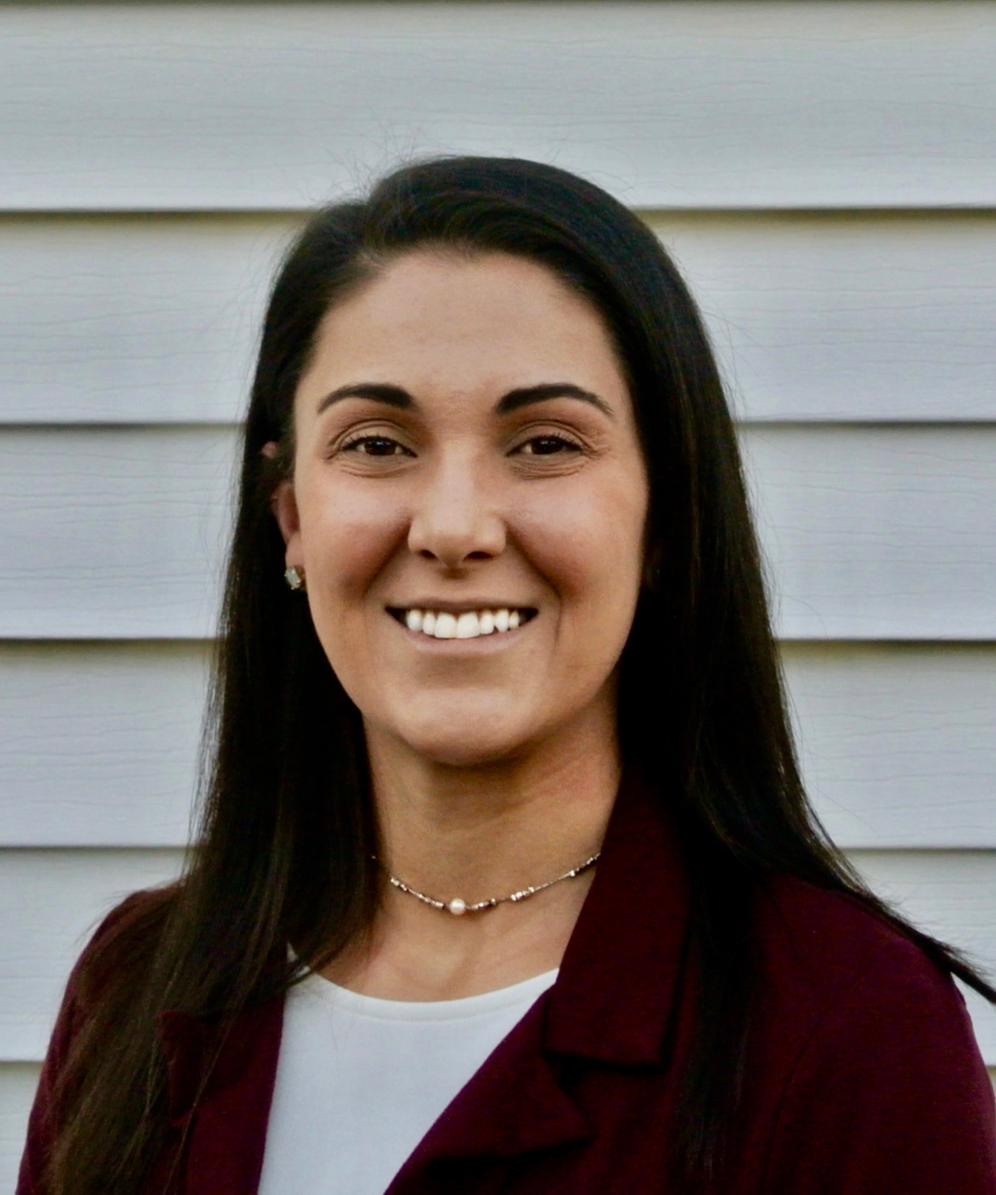
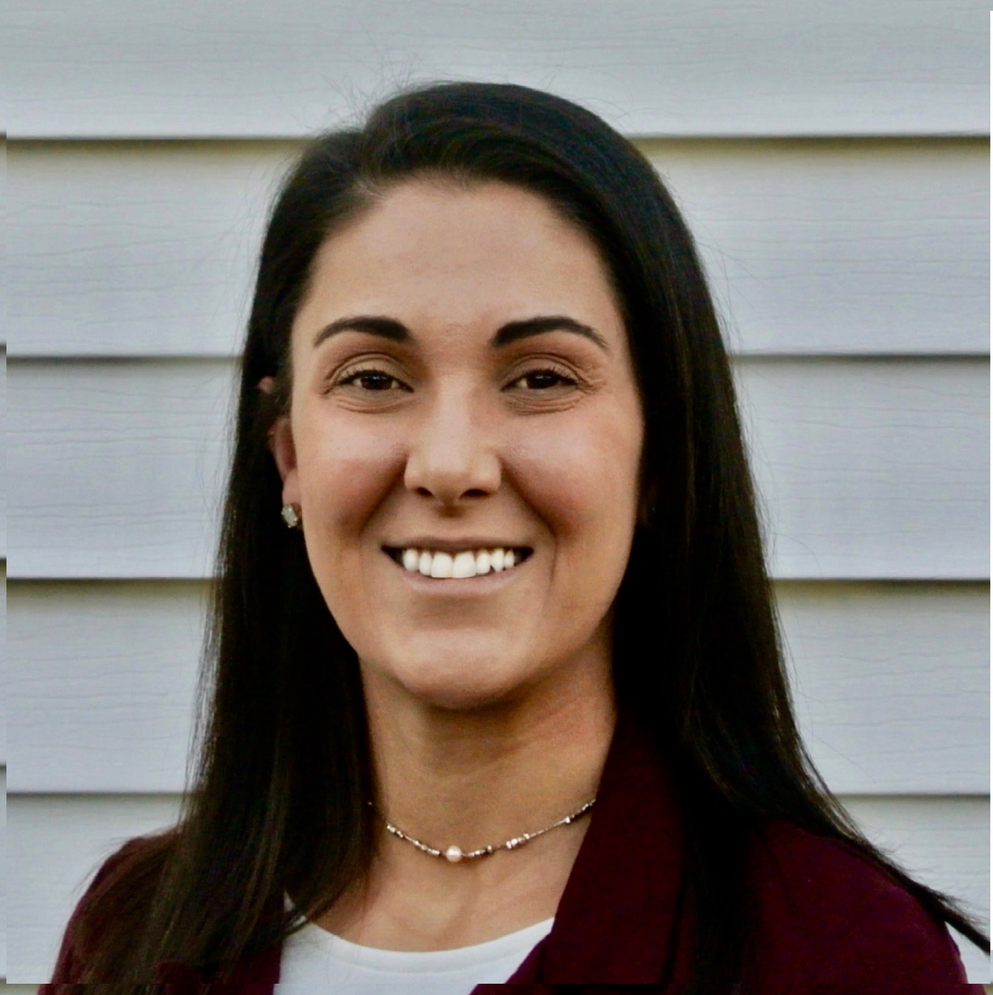
resized photos

diff --git a/src/app/about/about.component.html b/src/app/about/about.component.html
@@ -44,11 +44,11 @@
             alt="picture of Liz Collacott"
           />
           <mat-card-content>
-            <p>Liz - what do you want to put in here??</p>
+            <p>The first step towards getting somewhere is to decide you're not going to stay where you are - JP Morgan</p>
           </mat-card-content>
           <mat-card-actions>
             <a href="mailto:elizabeth.collacott@stellantis.com" mat-button
-              >EMAIL</a
+              >andyis16@hotmail.com</a
             >
           </mat-card-actions>
         </mat-card>
@@ -64,7 +64,7 @@
             alt="picture of Christina Evans"
           />
           <mat-card-content>
-            <p>Christina - what do you want to put in here??</p>
+            <p>The first step towards getting somewhere is to decide you're not going to stay where you are - JP Morgan</p>
           </mat-card-content>
           <mat-card-actions>
             <a href="mailto:christinae313@gmail.com" mat-button>EMAIL</a>

diff --git a/src/app/about/about.component.css b/src/app/about/about.component.css
@@ -38,8 +38,8 @@ footer {
   background:rgba(255, 255, 255, 0.808)
 }
 .about-devs-section {
-  margin-left: 1em;
-  margin-right: 1em;
+  margin-left: 3.5em;
+  margin-right: 3.5em;
   margin-top: 3.5em;
   display: grid;
   grid-template-columns: repeat(2, 1fr);
